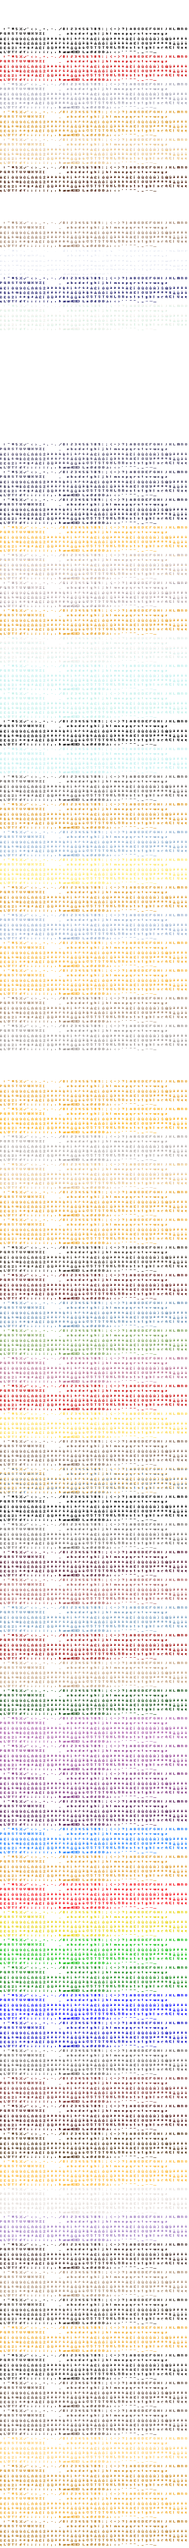
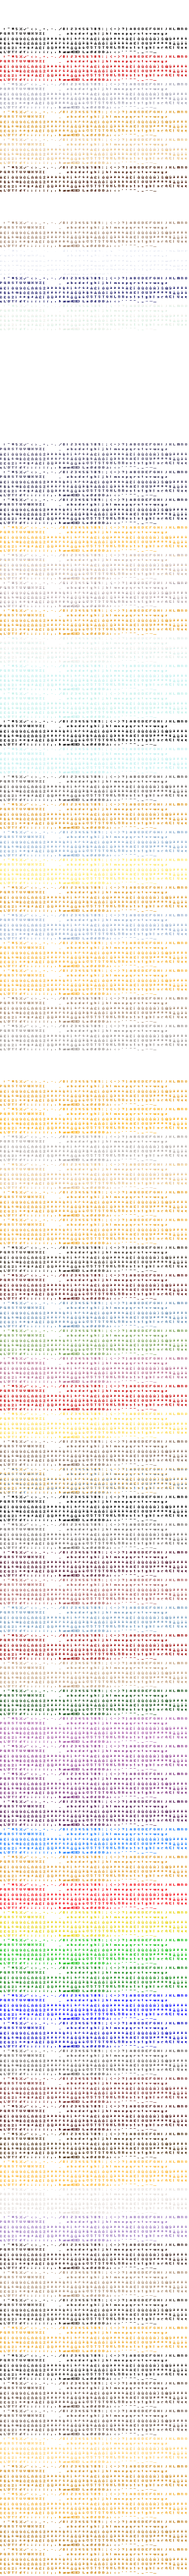
The army list's Items and Ok are text-free pictures; the font engine draws their labels
Claude-Session: https://claude.ai/code/session_01UzZBhxFxbSo1oUbURzwSaE

Changed region(s): [[0.0, 0.1559, 1.0, 1.0], [0.0, 0.0, 0.9062, 0.1247], [0.9375, 0.0, 1.0, 0.1247]]

diff --git a/crates/f4x-client/src/panel_button_art.rs b/crates/f4x-client/src/panel_button_art.rs
@@ -1,0 +1,91 @@
+//! The army list's blue buttons (Items and Ok) without their lettering: the original's pictures
+//! cleaned by `scripts/button_text_free.py` (`assets/button/panel_<name>.png`, 41 by 15), the label a
+//! text key drawn by the font engine in style 4 in the gold set `font_ramp::PANEL_WORD` with a black
+//! shadow down and to the right.
+
+use macroquad::prelude::*;
+use std::cell::RefCell;
+
+use crate::font::{rgb, Ink, Style};
+use crate::font_ramp::PANEL_WORD;
+use crate::frame::Layout;
+use crate::input::Input;
+use crate::menu_bar_art::{draw_button, label_font};
+use crate::ui;
+use crate::view::App;
+
+const ITEMS: &[u8] = include_bytes!("../assets/button/panel_items.png");
+const OK: &[u8] = include_bytes!("../assets/button/panel_ok.png");
+
+/// Which picture the button has.
+#[derive(Clone, Copy, PartialEq, Eq)]
+pub(crate) enum Panel {
+    Items,
+    Ok,
+}
+
+thread_local! {
+    static TEXTURES: RefCell<[Option<Texture2D>; 2]> = const { RefCell::new([None, None]) };
+}
+
+fn texture(panel: Panel) -> Texture2D {
+    TEXTURES.with(|cache| {
+        cache.borrow_mut()[panel as usize]
+            .get_or_insert_with(|| {
+                let bytes = if panel == Panel::Items { ITEMS } else { OK };
+                let tex = Texture2D::from_file_with_format(bytes, Some(ImageFormat::Png));
+                tex.set_filter(FilterMode::Nearest);
+                tex
+            })
+            .clone()
+    })
+}
+
+impl App {
+    /// The button with its top left at `at`, labelled by the text key `key`; it moves a pixel while
+    /// held. True when clicked.
+    pub(crate) fn panel_button(
+        &mut self,
+        lay: &Layout,
+        panel: Panel,
+        key: &str,
+        at: (f32, f32),
+        input: &Input,
+    ) -> bool {
+        let tex = texture(panel);
+        let s = lay.scale;
+        let size = vec2(tex.width(), tex.height());
+        let state = ui::hit(lay.rect((at.0, at.1, size.x, size.y)), true, input);
+        let pressed = state.held();
+        draw_button(&tex, lay.point(at.0, at.1), size * s, s, pressed, WHITE);
+        let shift = if pressed { 1.0 } else { 0.0 };
+        let style = Style::inked(4, Ink::Set(PANEL_WORD))
+            .shadow()
+            .edge(rgb(8, 4, 4))
+            .center();
+        let label = self.text(key);
+        self.draw_styled_in(
+            &label_font(),
+            (lay.origin.x, lay.origin.y, s),
+            &style,
+            &label,
+            (at.0 + size.x / 2.0 + shift, at.1 + 3.0 + shift),
+        );
+        state.clicked()
+    }
+}
+
+#[cfg(test)]
+mod tests {
+    use super::{ITEMS, OK};
+
+    /// Both pictures are 41 by 15 (the PNG header holds the size at bytes 16 to 24).
+    #[test]
+    fn the_panels_are_forty_one_by_fifteen() {
+        for bytes in [ITEMS, OK] {
+            let w = u32::from_be_bytes(bytes[16..20].try_into().unwrap());
+            let h = u32::from_be_bytes(bytes[20..24].try_into().unwrap());
+            assert_eq!((w, h), (41, 15));
+        }
+    }
+}

diff --git a/scripts/button_text_free.py b/scripts/button_text_free.py
@@ -29,6 +29,10 @@ The plank buttons of the load/save and settings screens (gold brown, lettering i
 blank picture already: `button_load_inactive_00.png` (38x13). `plank_<width>.png` is that picture
 widened by repeating columns from its middle, so the Settings screen's Ok (40 wide) is the plank
 plus a label from the font engine.
+
+The army list's Items and Ok (41x15, dark blue marble with a gold border; gold blackletter, a black
+shadow) are cleaned at everything gold or black inside the border and written as `panel_<name>.png`.
+The pressed picture is the up one moved, as for the others.
 """
 import argparse
 from pathlib import Path
@@ -39,6 +43,7 @@ INK = (8, 4, 4)
 NAMES = ["game", "spells", "armies", "cities", "magic", "info", "plane"]
 ACTIONS = ["done", "patrol", "wait", "build", "meld", "purify"]
 CITY = ["buy", "change", "ok"]
+PANELS = ["items", "ok"]
 LOCKED = ["done", "patrol", "wait", "build"]
 PLANK_WIDTHS = [38, 39, 40, 58]
 
@@ -129,6 +134,21 @@ def city_ink(img: Image.Image) -> set[tuple[int, int]]:
     }
 
 
+def panel_ink(img: Image.Image) -> set[tuple[int, int]]:
+    """The lettering of the army list's blue buttons: gold, or the black of its shadow, inside the
+    border (the bright gold line at row 1 and column 1, the darker one at the bottom and right, and the
+    black frame)."""
+    img = img.convert("RGBA")
+    w, h = img.size
+    px = img.load()
+    return {
+        (x, y)
+        for y in range(2, h - 2)
+        for x in range(2, w - 2)
+        if px[x, y][0] > px[x, y][2] or px[x, y][:3] == INK
+    }
+
+
 def plank(blank: Image.Image, width: int) -> Image.Image:
     """The blank plank widened to `width` by repeating columns of its middle."""
     w, h = blank.size
@@ -161,6 +181,11 @@ def main() -> None:
         img, n = clean(img, city_ink(img), shadow=False)
         img.save(out_dir / f"city_{name}.png")
         print(f"city {name}: {n} label pixels replaced")
+    for name in PANELS:
+        img = Image.open(Path(args.src).parent / "army_list" / f"button_{name}_00.png")
+        img, n = clean(img, panel_ink(img), shadow=False)
+        img.save(out_dir / f"panel_{name}.png")
+        print(f"panel {name}: {n} label pixels replaced")
     blank = Image.open(Path(args.src).parent / "load_save" / "button_load_inactive_00.png")
     for width in PLANK_WIDTHS:
         plank(blank, width).save(out_dir / f"plank_{width}.png")

diff --git a/crates/f4x-client/src/army_screen.rs b/crates/f4x-client/src/army_screen.rs
@@ -9,6 +9,7 @@ use crate::font::Style;
 use crate::font_ramp;
 use crate::input::Input;
 use crate::page::Page;
+use crate::panel_button_art::Panel;
 use crate::ui;
 use f4x_core::map::Position;
 use f4x_def::text::Args;
@@ -349,8 +350,8 @@ impl Page for ArmyUi {
         }
 
         // Buttons and leaving.
-        let items = app.army_button(&lay, 3, 273.0, 163.0, true, input);
-        let ok = app.army_button(&lay, 4, 273.0, 182.0, true, input);
+        let items = app.panel_button(&lay, Panel::Items, "ui.button_items", (273.0, 163.0), input);
+        let ok = app.panel_button(&lay, Panel::Ok, "ui.button_ok_mixed", (273.0, 182.0), input);
         *self = ui;
         if items {
             app.open_item_screen();

diff --git a/crates/f4x-client/src/font_ramp.rs b/crates/f4x-client/src/font_ramp.rs
@@ -155,8 +155,10 @@ pub(crate) const FLAT_180: usize = 89;
 pub(crate) const MENU_WORD: usize = 90;
 /// the start menu's word under the mouse: the same gold, darker.
 pub(crate) const MENU_WORD_HOVER: usize = 91;
+/// the army list's Items and Ok: gold, darker towards the bottom.
+pub(crate) const PANEL_WORD: usize = 92;
 /// How many ramps there are; the atlases of styles 0 to 5 stack 16 + this many colour sets.
-pub(crate) const COUNT: usize = 76;
+pub(crate) const COUNT: usize = 77;
 
 /// The colour set of one palette colour on its own (`FLATS` in the script); a colour not
 /// listed there panics: add it to `FLATS` and run the script again.

diff --git a/scripts/font_ramps.py b/scripts/font_ramps.py
@@ -66,6 +66,7 @@ RAMPS = [
 LATE = [
     ("MENU_WORD", None, [0, 178, 177, 176, 176], "the start menu's words: gold, light on top (its `vortex` pictures)"),
     ("MENU_WORD_HOVER", None, [0, 182, 180, 178, 178], "the start menu's word under the mouse: the same gold, darker"),
+    ("PANEL_WORD", None, [0, 180, 180, 179, 178], "the army list's Items and Ok: gold, darker towards the bottom"),
 ]
 
 

diff --git a/crates/f4x-client/src/main.rs b/crates/f4x-client/src/main.rs
@@ -68,6 +68,7 @@ mod options_screen;
 mod outpost_screen;
 mod page;
 mod page_turn;
+mod panel_button_art;
 mod plank_button_art;
 mod pointer;
 mod preferences;

diff --git a/docs/scripts.md b/docs/scripts.md
@@ -22,7 +22,7 @@ row when you add or change a script (see `CLAUDE.md`).
 | `import_mom.py` | Imports Master of Magic data from the author's own copy of the game and a ReMoM clone into `content/` (rules data, committed) and `content-local/` (other copyrighted prose, never committed; the help text is no longer written, the game reads only `crates/f4x-client/content/text/en/help/help.ron`); writes an import report (the local files include `event_texts.ron`, the random events' messages from `EVENTMSG.LBX`). It writes only the local files; the game data (`races`, `units`, `buildings`, `spells`, `abilities`, `items`, `realms`, `level_paths`, `rules`) is kept by hand in `content/`. |
 | `list_ogbugs.py` | Indexes the `OGBUG` comments in the ReMoM clone (places where the original departs from its manual) into `content-local/`, as a worklist for `docs/help-vs-implementation-conflicts.md`. |
 | `install_fonts.py` | Downloads the open-licence fonts listed in `scripts/fonts.json` (pinned sha256, only licences without restrictions) into `reference/fonts/`; `--list`, `--only ID...`, `--pin` fills in new hashes. See `docs/fonts.md`. Standard library only. |
-| `button_text_free.py` | Makes the text-free copies of the main screen's buttons (`assets-local/screens/main_screen/button_<name>_00.png` to `crates/f4x-client/assets/button/<name>.png`): the seven menu-bar buttons (style 4 label with its three "shadow down" copies) the Next Turn button (style 4 gold lettering, dark shadow, cleaned by colour) the unit window's Done, Patrol, Wait, Build, Meld and Purify (style 0 label, up and locked) the city screen's wooden Buy, Change and OK (`city_<name>.png`, style 1 label in lavender grey) and the plank `plank_<width>.png` (38, 39, 40, 58) (the load/save blank widened, for the Settings Ok). The label's ink is found by its colour and its pixels are filled with the marbling of the same row. The client draws the labels itself (`menu_bar_art.rs`, `action_button_art.rs`). Needs Pillow (`.venv`). |
+| `button_text_free.py` | Makes the text-free copies of the main screen's buttons (`assets-local/screens/main_screen/button_<name>_00.png` to `crates/f4x-client/assets/button/<name>.png`): the seven menu-bar buttons (style 4 label with its three "shadow down" copies) the Next Turn button (style 4 gold lettering, dark shadow, cleaned by colour) the unit window's Done, Patrol, Wait, Build, Meld and Purify (style 0 label, up and locked) the city screen's wooden Buy, Change and OK (`city_<name>.png`, style 1 label in lavender grey) the army list's blue Items and Ok (`panel_<name>.png`) and the plank `plank_<width>.png` (38, 39, 40, 58) (the load/save blank widened, for the Settings Ok). The label's ink is found by its colour and its pixels are filled with the marbling of the same row. The client draws the labels itself (`menu_bar_art.rs`, `action_button_art.rs`). Needs Pillow (`.venv`). |
 | `button_label_font.py` | Makes `assets/button/label.{fnt,png}`, style 0 with the serif "I" of the original's BUILD picture (the Build label's font), and `assets/button/wood.{fnt,png}`, style 1 with the letters of BUY, CHANGE and OK cut from the city screen's pictures, with their darker corner pixels (the font of the wooden buttons' labels). Needs Pillow (`.venv`). |
 | `font_match.py` | Ranks the fonts in `reference/fonts` by how closely their pixels match the original's font styles (`assets-local/art/fonts/bmfont`): draws each without anti-aliasing at sizes 5 to 24 (a variable font at its lightest, default and heaviest weight) and scores the overlap of each glyph with the original's. `--style N`, `--top N`, `--sizes MIN MAX`, `--only TEXT`. Needs Pillow (`.venv`). See `docs/fonts.md`. |
 | `font_editor.py` | A pixel editor for the BMFont files the client ships (`crates/f4x-client/assets/fonts`): serves `scripts/font_editor.html` on 127.0.0.1:8765, where a glyph is edited on a pixel grid (paint, erase, shift, flip, resize, y offset, advance, undo, live text preview) and saved into the atlas, copied into every colour set; the first save keeps the originals in `assets-local/art/fonts/orig`. `--dir`, `--port`. `f4x-extract art` writes its own copy elsewhere, so it does not overwrite the edits. Needs Pillow (`.venv`). |

diff --git a/docs/button-text-checklist.md b/docs/button-text-checklist.md
@@ -17,7 +17,7 @@ translucent shadow edge (`.edge(Color::from_rgba(..))`) follows the marbling.
 
 1. [x] Main screen: Next Turn (one 67x16 picture, `main` 35 and 58)
 2. [x] City screen: Buy, Change, OK (the scroll arrows have no text; a disabled button fades as the original's does, so the extractor's Buy (locked) picture is not needed)
-3. [ ] Army list: Items, Ok
+3. [x] Army list: Items, Ok are text-free (`panel_items.png`, `panel_ok.png`) with the labels drawn by `panel_button_art.rs` (style 4 in the gold set `PANEL_WORD`, black shadow, kerned); both match the original pixel for pixel
 4. [ ] City list: OK (`reload` 22; the arrows have no text)
 5. [ ] Item screen: Alchemy, Ok
 6. [ ] Magic screen: Alchemy, Ok
